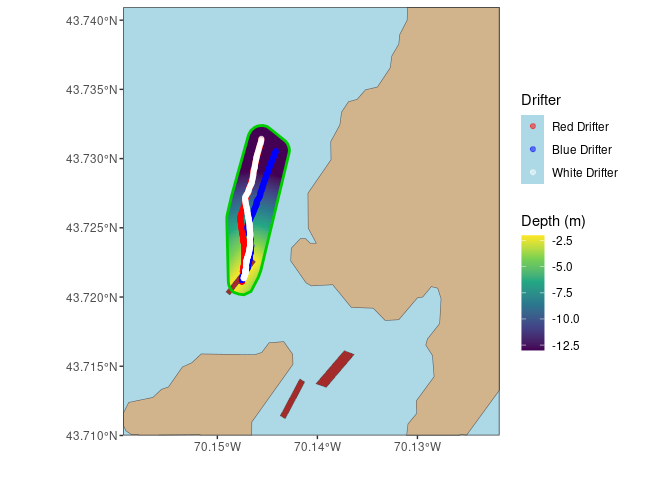
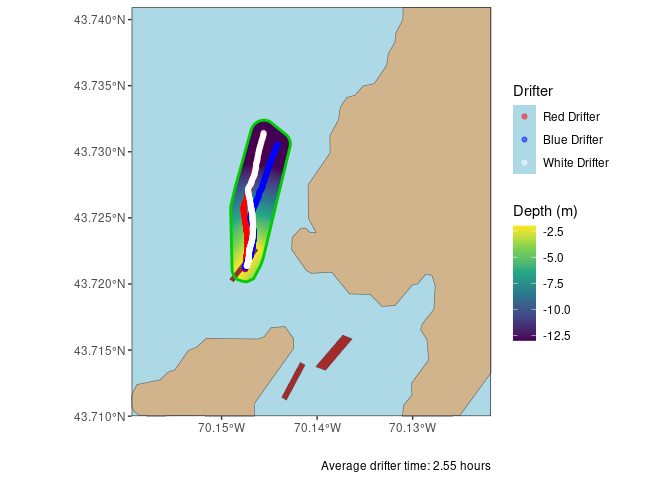
Update for Aug 5 drifts and adding elapsed times

diff --git a/README.md b/README.md
@@ -112,6 +112,6 @@ forward.
 
 ![](README_files/figure-gfm/cheb-1.png)<!-- -->
 
-### Deep Cove 13-May-2025
+### Deep Cove 05-August-2025
 
 ![](README_files/figure-gfm/deep_cove3-1.png)<!-- -->
